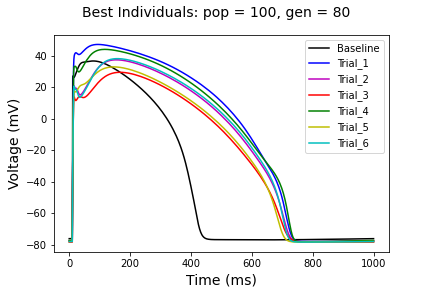
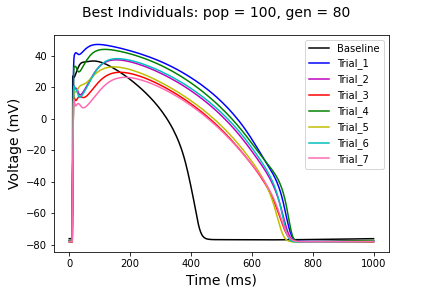
new_plot

diff --git a/plot_GA.py b/plot_GA.py
@@ -48,6 +48,12 @@ ind_6 = ind_6.to_dict('index')
 t6, v6 = plot_GA(ind_6)
 plt.plot(t6, v6, '-c', label = 'Trial_6')
 
+ind_7 = pd.read_excel('Best_ind_7.xlsx')
+ind_7 = ind_7.to_dict('index')
+
+t7, v7 = plot_GA(ind_7)
+plt.plot(t7, v7, c = 'hotpink', label = 'Trial_7')
+
 plt.legend()
 plt.ylabel('Voltage (mV)', fontsize=14)
 plt.xlabel('Time (ms)', fontsize=14)
